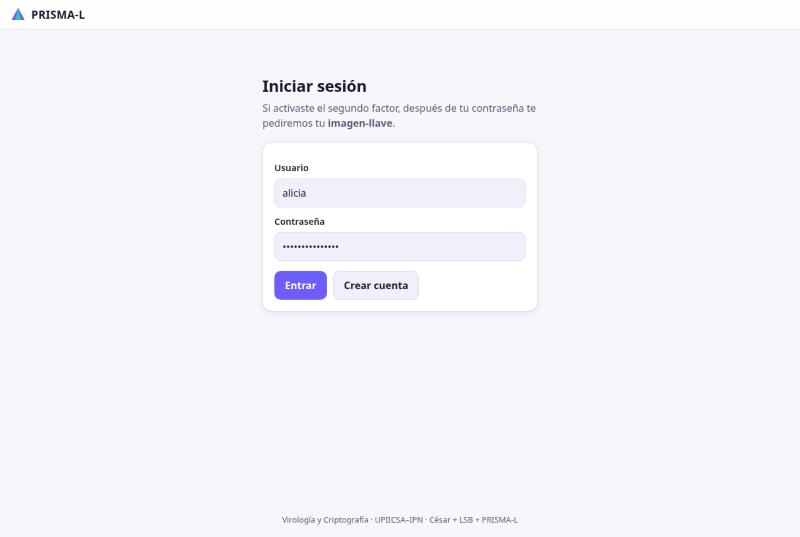
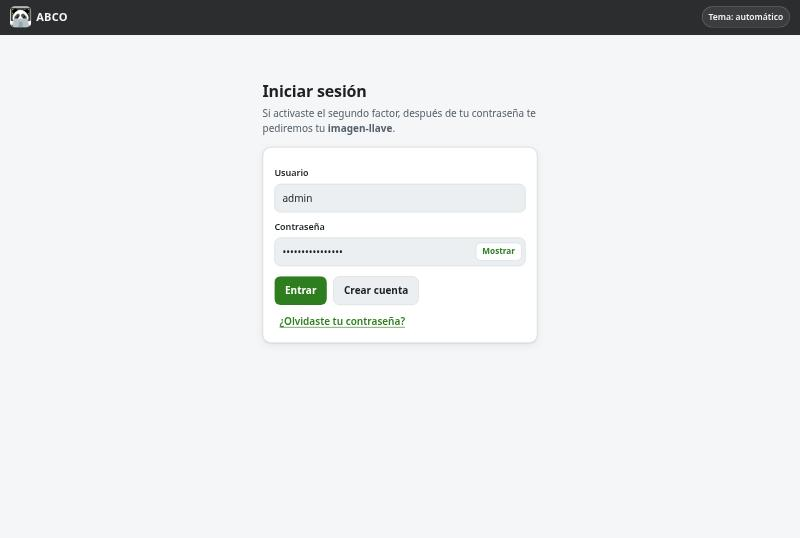
Capturas nuevas de la web (ABCO, tema claro y oscuro) para la documentación

diff --git a/Examen_Prisma/docs/word/generar_documento.js b/Examen_Prisma/docs/word/generar_documento.js
@@ -494,15 +494,15 @@ add(
       "Bob abre **Revelar**, carga el PNG, escribe la frase y obtiene el mensaje.",
       "Eve intercepta el PNG: a simple vista es una foto normal y, sin la frase, no puede extraer nada."],
     "Bob lee el mensaje; Eve solo ve una imagen.", "Figuras de Ocultar y Revelar (sección 11) y tabla de integridad (sección 8)."),
-  ...img(SHOT("web_02_ocultar.jpg"), "E1: Alice oculta el mensaje (ABCO, PSNR 81.57 dB)."),
-  ...img(SHOT("web_03_revelar.jpg"), "E1: Bob revela el mensaje con la frase correcta."),
+  ...img(SHOT("web_03_ocultar.jpg"), "E1: Alice oculta el mensaje (ABCO, PSNR 81.66 dB)."),
+  ...img(SHOT("web_04_revelar.jpg"), "E1: Bob revela el mensaje con la frase correcta."),
   ...scenario("E2", "Esteganografía clásica frente a ABCO", "Eve, con un extractor que lee los bits menos significativos en orden.",
     "Eve tiene una imagen con mensaje en modo clásico y otra en modo ABCO.",
     ["Eve extrae la imagen clásica con **Revelar → Esteganografía clásica**: obtiene el mensaje completo sin ninguna clave.",
       "Eve intenta lo mismo con la imagen ABCO: el sistema responde que la lectura secuencial no produce un mensaje legible y muestra los bytes que leyó, que parecen ruido aleatorio.",
       "Eve intenta revelar la imagen ABCO con una frase incorrecta: recibe el error genérico."],
     "El modo clásico no protege nada; ABCO sí.", "Figura del error genérico y prueba `Classic_IsReadableByAnyone_PrismaIsNot`."),
-  ...img(SHOT("web_04_revelar_error.jpg"), "E2: frase incorrecta → error genérico y lo que vería un atacante."),
+  ...img(SHOT("web_05_revelar_error.jpg"), "E2: frase incorrecta → error genérico y lo que vería un atacante."),
   ...scenario("E3", "Alteración de la imagen", "Mallory (modifica la imagen en tránsito).",
     "Una imagen con mensaje ABCO.",
     ["Mallory cambia un solo bit de un canal que forma parte de la trama.",
@@ -517,14 +517,14 @@ add(
       "El atacante, con la contraseña pero con otra imagen, recibe 401 \"La imagen-llave no es válida para este usuario\".",
       "Con la imagen correcta y una contraseña equivocada, recibe 401 \"Usuario o contraseña incorrectos\"."],
     "Solo entra quien tiene **ambos** factores.", "Figuras del login en dos pasos y de la activación; registros de la auditoría."),
-  ...img(SHOT("web_08_login_2fa.jpg"), "E4: segundo paso del login (imagen-llave)."),
+  ...img(SHOT("web_13_login_2fa.jpg"), "E4: segundo paso del login (imagen-llave)."),
   ...scenario("E5", "Ruptura de César", "Eve, con el laboratorio César.",
     "Un texto en español cifrado con César (k = 11).",
     ["Eve pega el texto cifrado en el laboratorio y pulsa **Romper (χ²)**.",
       "El sistema descifra con las 26 claves, calcula χ² contra las frecuencias del español y las ordena.",
       "La clave con menor χ² (k = 11, χ² = 12.98) recupera el texto en menos de un milisegundo."],
     "César se rompe de inmediato; por eso el sistema nunca lo usa para proteger contraseñas.", "Figura del laboratorio César."),
-  ...img(SHOT("web_05_cesar.jpg"), "E5: César roto con χ²; la clave correcta destaca sobre las demás."),
+  ...img(SHOT("web_06_cesar.jpg"), "E5: César roto con χ²; la clave correcta destaca sobre las demás."),
   ...scenario("E6", "Recompresión por una app de mensajería", "Alice (envía la imagen \"como foto\").",
     "Una imagen con mensaje ABCO.",
     ["Alice comparte el PNG por una app que lo convierte a JPEG.",
@@ -572,11 +572,15 @@ add(
     "**¿Olvidaste tu contraseña?:** en el inicio de sesión; indica contactar al administrador.",
     "**Admin** (solo administradores): traza de ABCO, mapa de diferencias, usuarios (revelar nombre, restablecer contraseña, cambiar rol, restablecer 2FA) y auditoría.",
   ]),
-  ...img(SHOT("web_01_login.jpg"), "Web: inicio de sesión."),
-  ...img(SHOT("web_06_comparador.jpg"), "Web: comparador de algoritmos."),
-  ...img(SHOT("web_07_cuenta_2fa.jpg"), "Web: 2FA activado y la imagen-llave generada."),
-  ...img(SHOT("web_09_admin.jpg"), "Web: consola de administración (traza y mapa de diferencias)."),
-  ...img(SHOT("web_10_auditoria.jpg"), "Web: auditoría con usuarios ofuscados con César."),
+  ...img(SHOT("web_01_login.jpg"), "Web: inicio de sesión con el logo del panda, botón Mostrar contraseña y enlace «¿Olvidaste tu contraseña?»."),
+  ...img(SHOT("web_02_olvide.jpg"), "Web: mensaje al pulsar «¿Olvidaste tu contraseña?»."),
+  ...img(SHOT("web_07_comparador.jpg"), "Web: comparador con César, esteganografía clásica y ABCO."),
+  ...img(SHOT("web_12_cuenta_2fa.jpg"), "Web: 2FA activado y la imagen-llave generada."),
+  ...img(SHOT("web_08_admin.jpg"), "Web: consola de administración (traza y mapa de diferencias)."),
+  ...img(SHOT("web_10_usuarios.jpg"), "Web: usuarios con nombre ofuscado y acciones (restablecer contraseña, cambiar rol, restablecer 2FA)."),
+  ...img(SHOT("web_09_temporal.jpg"), "Web: contraseña temporal generada por el administrador (se muestra una sola vez)."),
+  ...img(SHOT("web_11_cambiar.jpg"), "Web: cambio obligatorio al entrar con la contraseña temporal."),
+  ...img(SHOT("web_14_oscuro.jpg"), "Web: tema oscuro."),
   H2("11.2 App Android"),
   ...steps([
     "Instalar `Prisma-L.apk`: en el teléfono, permitir la instalación desde el origen (navegador o administrador de archivos) y abrir el APK.",
